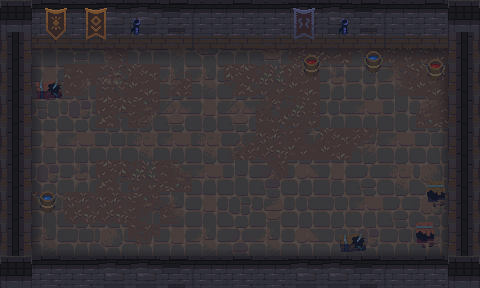
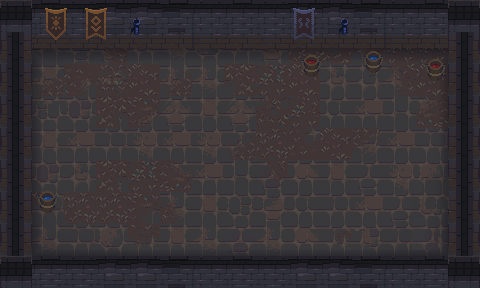
Buracos longe da parede, salas do Porao sem barril e caixa cortados, novidades sem vazar
Os desenhos Fendas e Lagoa punham buraco na fileira colada na parede: o
buraco entrava no desenho da parede e cortava os baldes e barris da sala
pronta. Agora ficam um ladrilho pra dentro e a conferencia dos desenhos
recusa buraco encostado na parede. As quatro salas prontas do Porao
perderam o barril com metade escura e a caixa com borrao (cobertos com
chao da propria sala, da mesma altura). A tela de novidades ficou opaca
(o menu aparecia por tras) e o texto cabe dentro da moldura.

Claude-Session: https://claude.ai/code/session_015qsxtAdkzrgiDbp9MyvvWc

diff --git a/Assets/Scripts/UI/TelaDeNovidades.cs b/Assets/Scripts/UI/TelaDeNovidades.cs
@@ -54,23 +54,25 @@ public class TelaDeNovidades : MonoBehaviour
         atual = this;
         quadroQueAbriu = Time.frameCount;
 
-        TelaSimples.Montar(gameObject, 130, new Color(0.03f, 0.02f, 0.03f, 0.97f));
+        // Fundo opaco: com a cor em espaco linear, 3% de transparencia ja deixava o menu aparecendo.
+        TelaSimples.Montar(gameObject, 130, new Color(0.03f, 0.02f, 0.03f, 1f));
         TelaSimples.Titulo(transform, "Titulo", 90, new Color(1f, 0.95f, 0.85f), 400f, "Novidades");
         TelaSimples.Faixa(transform, "Faixa", ArteDaInterface.FaixaRosa, 400f, 760f);
         TelaSimples.Texto(transform, "Versao", 30, new Color(0.8f, 0.7f, 0.75f), 315f, "Versão " + versao.TrimStart('v'));
 
-        UnityEngine.UI.Text texto = TelaSimples.Texto(transform, "Corpo", 28, new Color(1f, 0.97f, 0.92f), -20f, corpo);
+        // Area do texto bem dentro da moldura (a borda dela tem uns 50 px): sem encostar nem vazar.
+        UnityEngine.UI.Text texto = TelaSimples.Texto(transform, "Corpo", 28, new Color(1f, 0.97f, 0.92f), -22f, corpo);
         RectTransform rt = texto.rectTransform;
-        rt.sizeDelta = new Vector2(1320f, 560f);
+        rt.sizeDelta = new Vector2(1280f, 450f);
         texto.alignment = TextAnchor.UpperLeft;
         texto.verticalOverflow = VerticalWrapMode.Truncate;
         texto.resizeTextForBestFit = true;
-        texto.resizeTextMinSize = 16;
+        texto.resizeTextMinSize = 14;
         texto.resizeTextMaxSize = 28;
         texto.lineSpacing = 1.1f;
 
         TelaSimples.Painel(transform, "Painel", ArteDaInterface.MolduraGrande, -20f, new Vector2(1440f, 620f));
-        TelaSimples.LinhaDeTeclas(transform, "Teclas", -390f, "[Enter] continuar || [Pad A] continuar", 28, new Color(0.92f, 0.92f, 0.95f));
+        TelaSimples.LinhaDeTeclas(transform, "Teclas", -375f, "[Enter] continuar || [Pad A] continuar", 28, new Color(0.92f, 0.92f, 0.95f));
         Sons.Tocar(Som.MenuAbrir, 1f, 0f);
     }
 

diff --git a/Assets/Scripts/Sala/DisposicoesDaSala.cs b/Assets/Scripts/Sala/DisposicoesDaSala.cs
@@ -136,23 +136,23 @@ public static class DisposicoesDaSala
         }),
         ("Fendas", new[]
         {
-            "....F...F....",
-            "....F...F....",
-            ".............",
-            ".............",
             ".............",
             "....F...F....",
             "....F...F....",
+            ".............",
+            "....F...F....",
+            "....F...F....",
+            ".............",
         }),
         ("Lagoa", new[]
         {
-            ".FFF.........",
+            ".............",
             ".FFFF........",
             "..FFF........",
             ".............",
             "........FFF..",
             "........FFFF.",
-            ".........FF..",
+            ".............",
         }),
         ("Ilhas de fosso", new[]
         {
@@ -482,6 +482,17 @@ public static class DisposicoesDaSala
 
             if (peca.Tipo == M || peca.Tipo == F)
                 planta.DaForma = true;
+        }
+
+        // Buraco na fileira colada na parede entra no desenho da parede e corta os enfeites que a
+        // sala pronta ja traz encostados nela (barril, balde, tronco): fica pelo menos um ladrilho longe.
+        foreach (Peca peca in planta.Pecas)
+        {
+            if (peca.Tipo == F && (Mathf.Abs(peca.Celula.x) >= MEIA_LARGURA || Mathf.Abs(peca.Celula.y) >= MEIA_ALTURA))
+            {
+                Debug.LogWarning($"[DisposicoesDaSala] desenho '{planta.Nome}' tem buraco encostado na parede. Ficou de fora.");
+                return;
+            }
         }
 
         if (Jogavel(planta))

diff --git a/Lancador/notas/1.1.4.md b/Lancador/notas/1.1.4.md
@@ -1,0 +1,5 @@
+## Novidades
+
+- **Buracos:** não encostam mais na parede; ficam pelo menos um ladrilho longe dela.
+- **Salas do Porão:** sem os barris e caixas que pareciam cortados pela metade.
+- **Tela de novidades:** o texto cabe dentro da moldura e o menu não aparece mais por trás.
